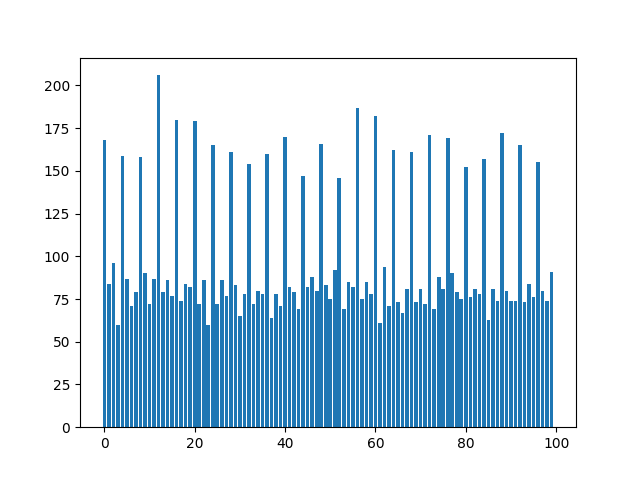
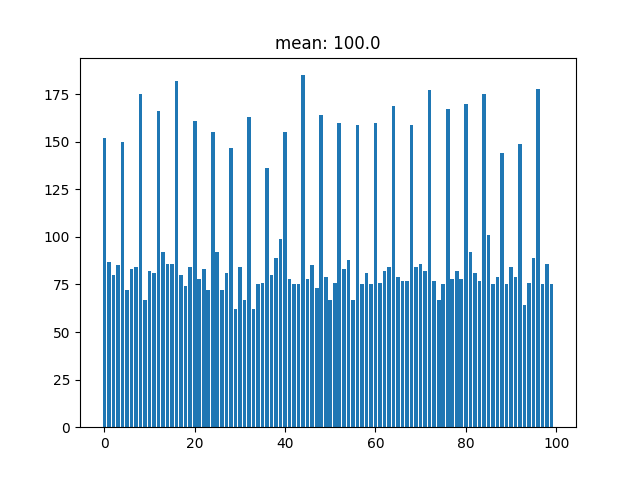
hmm

diff --git a/unique_hash.py b/unique_hash.py
@@ -6,9 +6,14 @@ import matplotlib
 import random
 import collections 
 
-def graph(c,name):
+def graph(counter,name):
 
-    plt.bar(*zip(*c.items()))
+    plt.bar(*zip(*counter.items()))
+    
+    sum_val = sum(counter.values())
+    mean = sum_val / len(counter)
+
+    plt.title('mean: ' + str(mean))
     plt.savefig(name)
     plt.clf()
 
@@ -20,11 +25,12 @@ def q2():
     for j in t_vals:
         h_vals = []
         for i in range(10000):
-            h_vals.append(h(j,r=random.random(),x=random.random()))
+            h_vals.append(h(j,r=random.random() + 0.02,x=random.random()))
         
         counter_h1 = collections.Counter(h_vals)
 
         graph(counter_h1,"h"+str(j)+".png")
+
 
 def q3():
     h_vals_1 = [] 
@@ -39,7 +45,7 @@ def q3():
         collisions_counter = 0
         for i in range(10000):
             x = random.random()
-            r = random.random()
+            r = random.random() + 0.02
             h_vals_1.append(h(t_vals_1[j],r=r,x=x))
             h_vals_2.append(h(t_vals_2[j],r=r,x=x))
 
@@ -63,7 +69,7 @@ def q4():
 
         for i in range(10000):
             x = random.random()
-            r = random.random()
+            r = random.random() + 0.02
             h_vals.append(h(t_vals_1[j],r=r,x=x)-h(t_vals_2[j],r=r,x=x))
 
         counter_h = collections.Counter(h_vals)
@@ -80,7 +86,7 @@ def h(t,r=0.02,x=0.1):
 
 
 def main():
-    q2()
+    #q2()
     q3()
     q4()
 if __name__ == "__main__":
